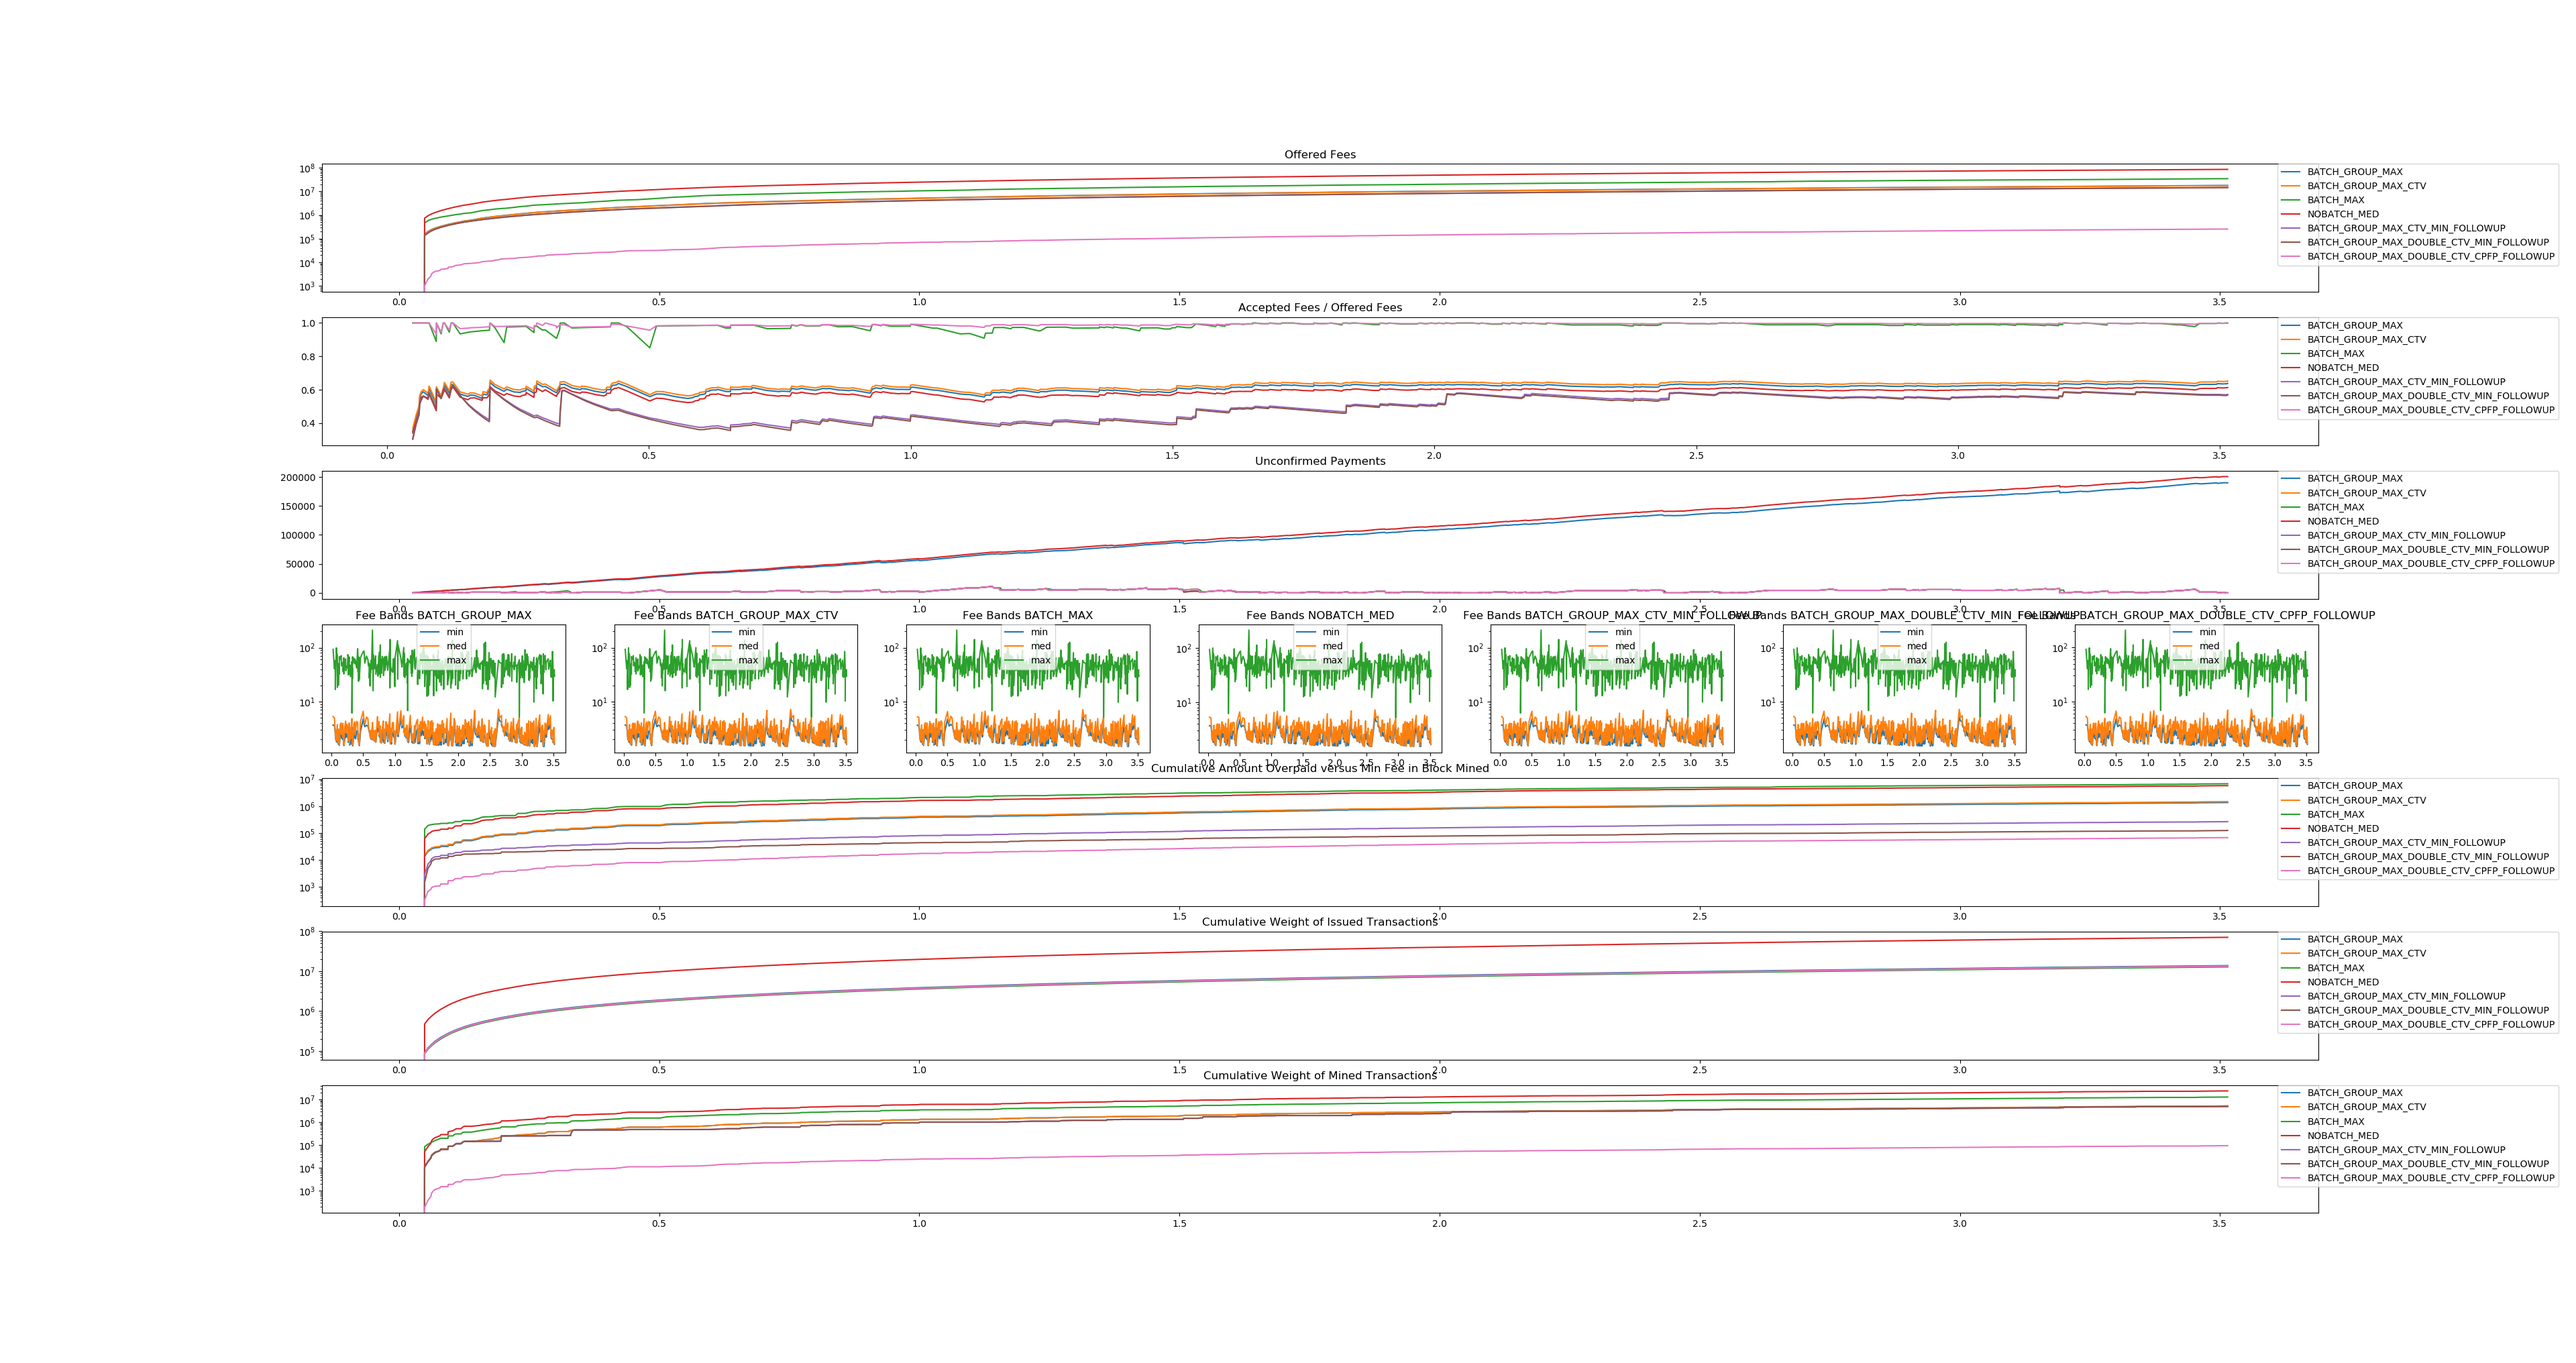
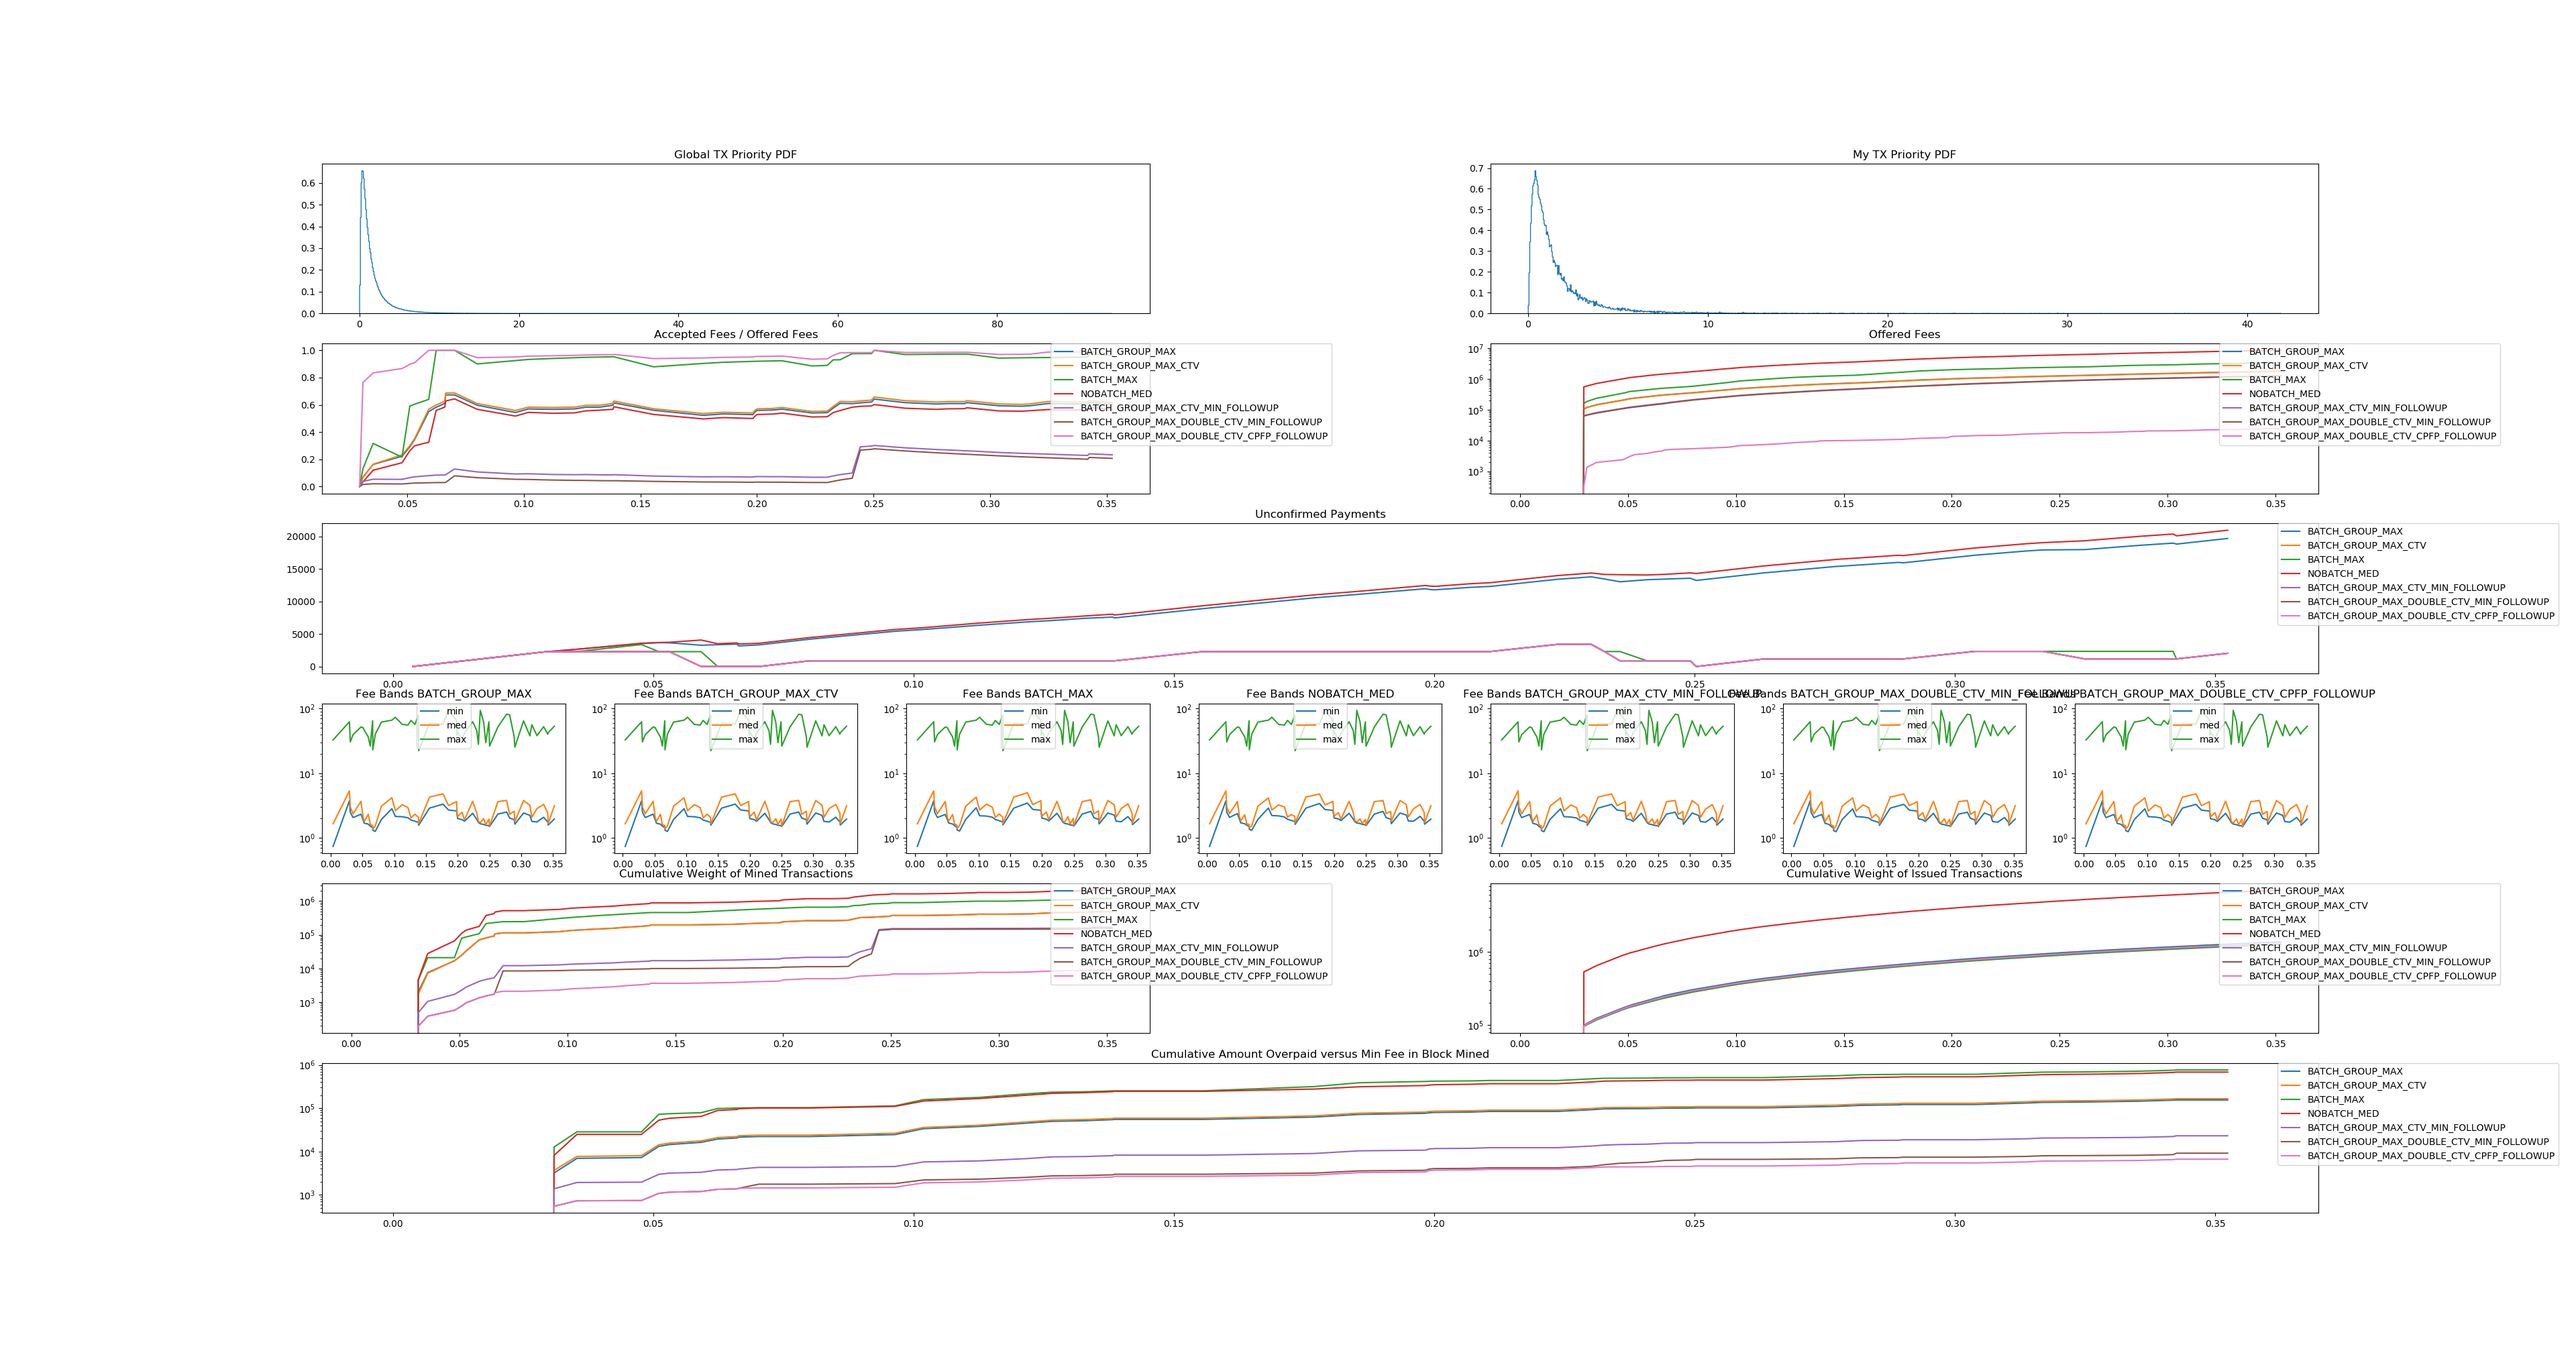
Add Post

diff --git a/batch-splitting/README.md b/batch-splitting/README.md
@@ -1,0 +1,160 @@
+# Batching Simulation
+
+Check Template Verify is a new opcode for Bitcoin which allows transaction
+issuers to split up their transaction into send and receive components. See
+https://utxos.org for more information.
+
+There is a concern that CTV would result in higher overall chain utilization
+(because of overhead) than existing batching solutions.
+
+
+This simulation analyzes a model where that's not true.
+
+The point of this simulation is to show that CTV is not *worse* than status quo
+with respect to scalability. I hacked this together in a couple of hours so feel
+free to suggest tweaks (via PR or issue) to make it more realistic & there may
+correct errors of course.
+
+## Setup
+
+I am modeling a situation where every block:
+
+- a business sees a number of payment requests per second
+- the rest of the world does another number of payments per second
+- Each payment and payment request has a priority
+- Priorities are drawn randomly from a distribution
+
+Because priority is relative, just the shape of the distribution of priority
+matters. The default distribution is lognormal, but others are included to check
+that the result holds across other distributions.
+
+The distribution of priority is the big hypothetical point -- what distributions
+are the actual priorities of outbound payments from businesses? Are they
+constant -- then this model is invalid. But if they fall on a distribution, then
+carry on reading...
+
+## Specific Assumptions
+
+If more than one payment request comes in within a single block period, it may
+make sense to issue them in the same transaction *if they are around the same
+priority*.
+
+If they come in at different priorities, it may make sense to split up
+transactions into batches based on their priority. If I have a batch that
+contains payment A and priority A.p, and B and B.p, then the entire batch should
+be at priority max(A.p, B.p). If A.p and B.p are too far apart, then batching
+them is inefficient as one has to overpay to achieve the same feerate for the 
+transaction.
+
+Thus, we assume:
+
+1. Transactions come in different priorities
+1. A batch must pay a rate appropriate for the highest priority payment in the
+   batch
+
+## Strategies
+
+Consider 4 batching implementations:
+
+
+### Strategy "NOBATCH_MED":
+ In this strategy we just issue transactions per payment, no
+ batching or anything else fancy. We pay the median fee of the
+ last block.
+### Strategy "BATCH_MAX":
+ In this strategy we batch transactions all together and then
+ we pay the min of the median or max feerate in batch
+### Strategy "BATCH_GROUP_MAX":
+ In this strategy we batch transactions of similar feerate
+ together and then we pay the min of the median or max feerate
+ in each batch
+### Strategy "BATCH_GROUP_MAX_CTV":
+ In this strategy we batch transactions of similar feerate
+ together and then we pay the min of the median or max feerate
+ in each batch
+ But instead of making independent batches, we put them through
+ one layer of a high fee paying CTV root.
+### Strategy "BATCH_GROUP_MAX_CTV_MIN_FOLLOWUP":
+ In this strategy we batch transactions of similar feerate
+ together and then we pay the min of the min feerate over the
+ last ten blocks or max feerate in each batch
+ But instead of making independent batches, we put them through
+ one layer of a high fee paying CTV root with n_bins outputs.
+
+ We cut through bins with only one element
+
+ Pay 10-block low (but mineable) fee for each bin
+
+### Strategy "BATCH_GROUP_MAX_DOUBLE_CTV_MIN_FOLLOWUP":
+ In this strategy we batch transactions of similar feerate
+ together and then we pay the min of the min feerate over the
+ last ten blocks or max feerate in each batch
+ But instead of making independent batches, we put them through
+ two layers of CTV: a high fee paying CTV root with one output,
+ and then a low paying CTV root with n_bins outputs.
+
+ We cut through bins with only one element
+ Pay 10-block low (but mineable) fee for each bin and second
+ root
+
+### Strategy "BATCH_GROUP_MAX_DOUBLE_CTV_CPFP_FOLLOWUP":
+ In this strategy we batch transactions of similar feerate
+ together and then we pay 0 (leaving it up to CPFP)
+ But instead of making independent batches, we put them through
+ two layers of CTV: a high fee paying CTV root with one output,
+ and then a 0 paying CTV root with n_bins outputs.
+
+ We cut through bins with only one element
+
+ This puts people into priority bins, but allows CPFP to commit
+ to the fees later avoiding over-offering of fees.
+
+ Pay 10-block low (but mineable) fee for each bin and second
+ root
+
+
+Note that the simulations are not doing anything smart for binning, just calling
+numpy.histogram. There's probably an optimal solution.
+
+The BATCH_GROUP_MAX_CTV fan-out is also the "obvious" one -- pay a CTV for each bin in the txn
+root, and then each CTV expands to the entire bin, skipping the CTV is there's
+only one bin. The other CTV strategies present a couple optimizations which can
+further improve the efficiency.
+
+
+# Claims
+My claims are as follows:
+
+A. If it is lower fee to use priority binned batching than single batching, then
+users will use priority binned batching for economic fee reducing reasons.
+B. If CTV priority binned batching is more blockspace efficient that priority
+binned batching, and hypothesis A. holds, this will overall make the chain usage
+lower.
+C. If CTV Priority Binned batching is more fee efficient than binned batching or
+normal binned batching, it will be preferred.
+D. If B., then C..
+E. If A. and B., then CheckTemplateVerify does not decrease the availability of
+chain space, even marginally so.
+
+# Results:
+
+I recommend you run main.py yourself to see for yourself (and zoom around), as
+well as play around with different parameters. The code is reasonably
+documented.
+
+![](examples/ExampleRunUnzoomed.png)
+
+And zoomed in on the interesting bits:
+
+![](examples/ExampleRunZoomed.png)
+
+This confirms all of the claims presented previously, and shows that CTV can be 
+
+# Limitations
+
+A better simulation would allow re-bundling the offered-but-not-taken fees into
+a new RBF batch, which would benefit Priority Batching but not CTV batching.
+
+The BATCH_GROUP_MAX_DOUBLE_CTV_CPFP_FOLLOWUP strategy also does not actually
+use CPFP, a better simulation would measure how much fee savings can be realized
+with CPFP.
